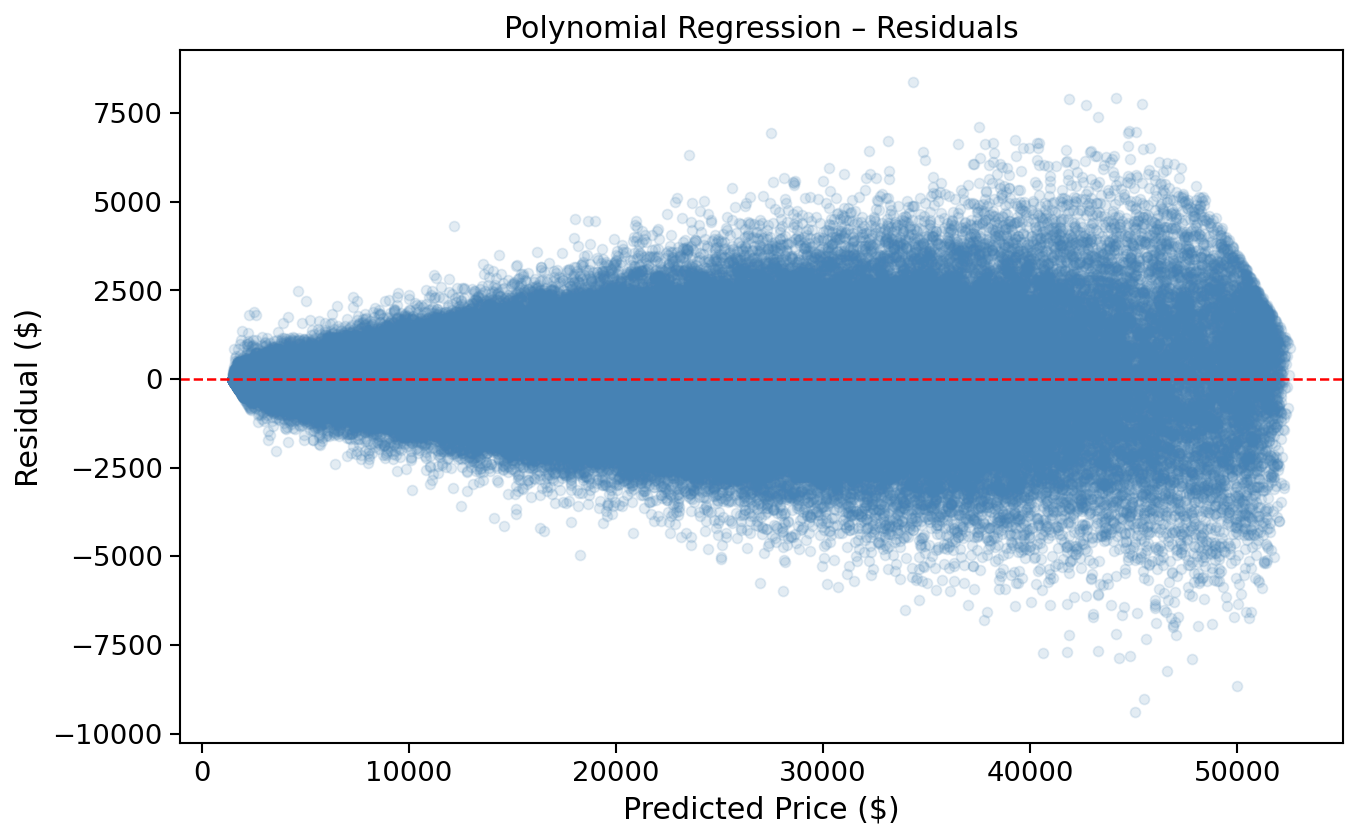
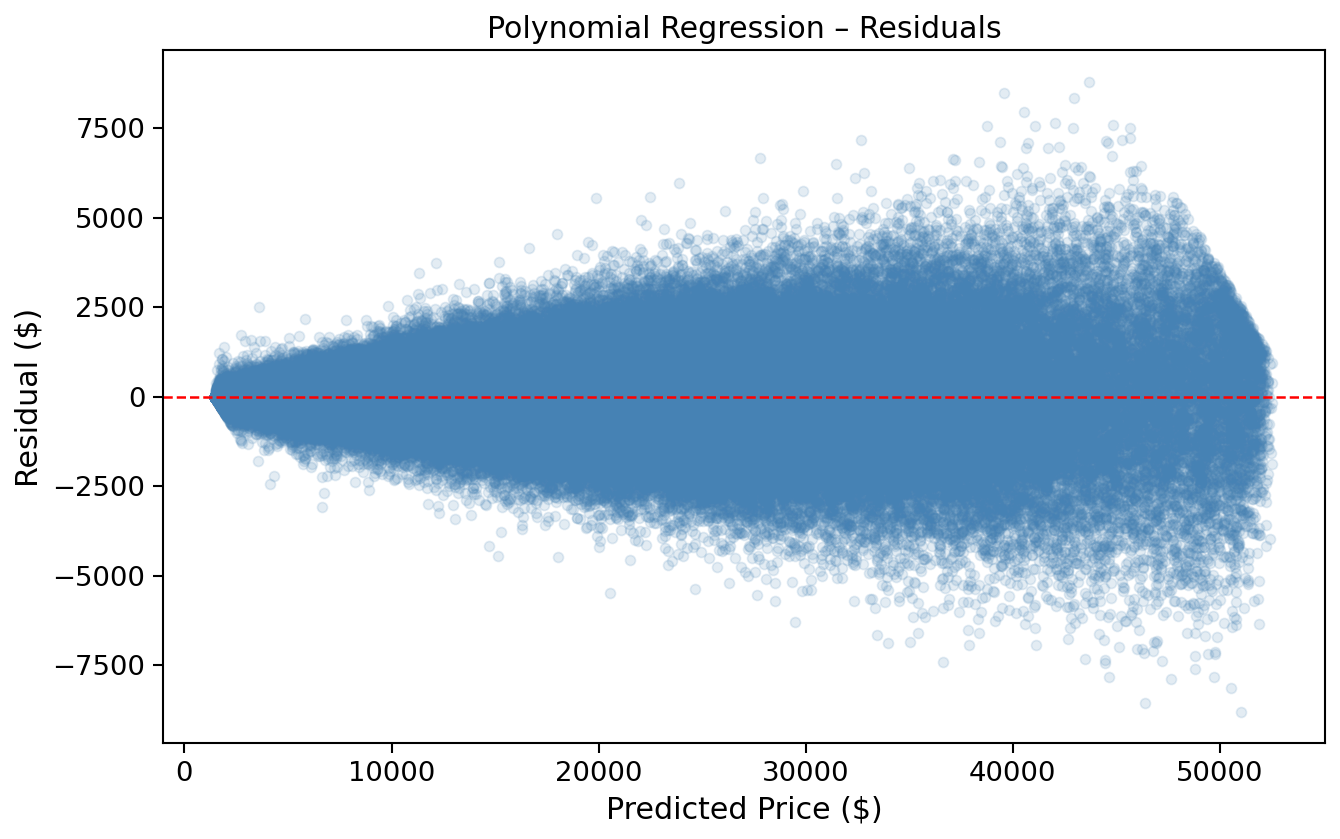
9th Commit:
Completed the main code
Generated the required plots.

diff --git a/main.py b/main.py
@@ -6,13 +6,12 @@ from pathlib import Path
 
 from sklearn.model_selection import train_test_split
 from sklearn.preprocessing import StandardScaler, PolynomialFeatures
-from sklearn.linear_model import LinearRegression
 from sklearn.ensemble import RandomForestRegressor
 from sklearn.metrics import r2_score, mean_absolute_error, mean_absolute_percentage_error
 
 from cleaning import dataCleaning
 
-# ── 1. Load (or generate) cleaned data ────────────────────────────────────────
+# ── 1. Loading cleaned data ────────────────────────────────────────
 path = Path("cleaned_data.csv")
 if path.is_file():
     print("Cleaned data found – loading.")
@@ -22,7 +21,7 @@ else:
 
 df = pd.read_csv('cleaned_data.csv')
 
-# ── 2. Remove price outliers (IQR method) ─────────────────────────────────────
+# ── 2. Removing price outliers using IQR method ─────────────────────────────────────
 Q1 = df['price'].quantile(0.25)
 Q3 = df['price'].quantile(0.75)
 
@@ -33,7 +32,7 @@ df = df[(df['price'] >= Q1 - 1.5 * IQR) & (df['price'] <= Q3 + 1.5 * IQR)].copy(
 
 print(f"\nRows after outlier removal: {len(df):,}")
 
-# ── 3. Define feature groups ───────────────────────────────────────────────────
+# ── 3. Defining feature groups ───────────────────────────────────────────────────
 # String columns that will be mean-encoded in step 5
 string_cols = ['make', 'model', 'trim', 'full_spec']
 
@@ -59,8 +58,6 @@ X_num = df[feature_cols]         # numeric + OHE boolean cols
 X_train_num, X_test_num,X_train_str, X_test_str, y_train, y_test = train_test_split(X_num, X_str, y, test_size=0.2, random_state=42)
 
 # ── 5. Mean encoding – fitted on training fold only ────────────────────────────
-# Encodes each string col as the average price of that category,
-# computed from training labels only → no leakage into test set.
 def mean_encode(train_X, test_X, train_y, col, new_col):
     means       = train_y.groupby(train_X[col]).mean()
     global_mean = train_y.mean()   # fallback for unseen categories
@@ -70,7 +67,6 @@ def mean_encode(train_X, test_X, train_y, col, new_col):
 mean_encode(X_train_str, X_test_str, y_train, 'full_spec', 'spec_encoded')
 mean_encode(X_train_str, X_test_str, y_train, 'model',     'model_encoded')
 mean_encode(X_train_str, X_test_str, y_train, 'make',      'make_encoded')
-# 'trim' is already captured inside full_spec, so we skip it here
 
 # Attach mean-encoded columns to the numeric feature frames
 for col in ['spec_encoded', 'model_encoded', 'make_encoded']:
@@ -107,7 +103,7 @@ plt.savefig('large_heatmap.png', dpi=300, bbox_inches='tight')
 plt.close()
 print("Heatmap saved to large_heatmap.png")
 
-# ── 8. Model – Polynomial Regression (degree 2) ────────────────────────────────
+# ── 8. Model – Random Forest ────────────────────────────────
 y_train_log = np.log1p(y_train)
 rf_model = RandomForestRegressor(n_estimators = 100,max_depth = 20,min_samples_leaf= 5,n_jobs = -1,random_state = 42)
 rf_model.fit(X_train, y_train_log)

diff --git a/cleaning.py b/cleaning.py
@@ -3,13 +3,17 @@ import pandas as pd
 
 def dataCleaning():
     # ── Load raw data ──────────────────────────────────────────────────────────
-    df = pd.read_csv("vehicle_price_prediction.csv")
-    print("\nPre Cleaning – missing values:\n", df.isnull().sum())
+    df = pd.read_csv("car_auction_data.csv")
+    print("\nPre Cleaning – missing values:\n", df.isnull().sum().sum())
 
     # ── Missing values ─────────────────────────────────────────────────────────
     # None in accident_history means no prior accident – fill is more useful
     df['accident_history'] = df['accident_history'].fillna("No_Accident")
-
+    df['price'] = df['price'].fillna(df['price'].mean())
+    df['mileage'] = df['mileage'].fillna(df['mileage'].mean())
+    df['mileage_per_year'] = df['mileage_per_year'].fillna(df['mileage_per_year'].mean())
+    df['engine_hp'] = df['engine_hp'].fillna(df['engine_hp'].mean())
+    
     # ── Ordinal encoding ───────────────────────────────────────────────────────
     condition_map = {'Excellent': 2, 'Good': 1, 'Fair': 0}
     accident_map  = {'No_Accident': 2, 'Minor': 1, 'Major': 0}
@@ -19,10 +23,10 @@ def dataCleaning():
 
     # ── Composite spec column ──────────────────────────────────────────────────
     df['full_spec'] = df['make'] + "_" + df['model'] + "_" + df['trim']
+    spec_means = df.groupby('full_spec')['price'].mean()
+    df['spec_encoded'] = df['full_spec'].map(spec_means)
 
     # ── One-hot encoding ───────────────────────────────────────────────────────
-    # transmission: typically 2-3 values (Manual / Automatic / CVT) – OHE fine
-    # Colors are already simplified to ~8-12 values – OHE fine
     ohe_cols = [
         'transmission',
         'fuel_type', 'drivetrain', 'body_type',
@@ -35,6 +39,7 @@ def dataCleaning():
     # ── Save ───────────────────────────────────────────────────────────────────
     df.to_csv('cleaned_data.csv', index=False)
     print("\nCleaning complete. Columns:\n", list(df.columns))
+    print("\nPost Cleaning – missing values:\n", df.isnull().sum().sum())
 
 
 if __name__ == '__main__':
